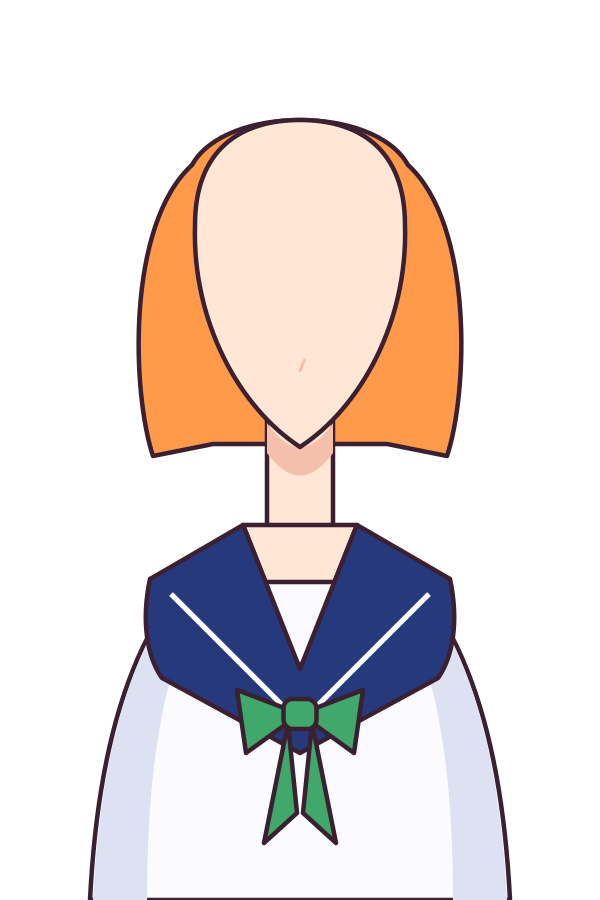
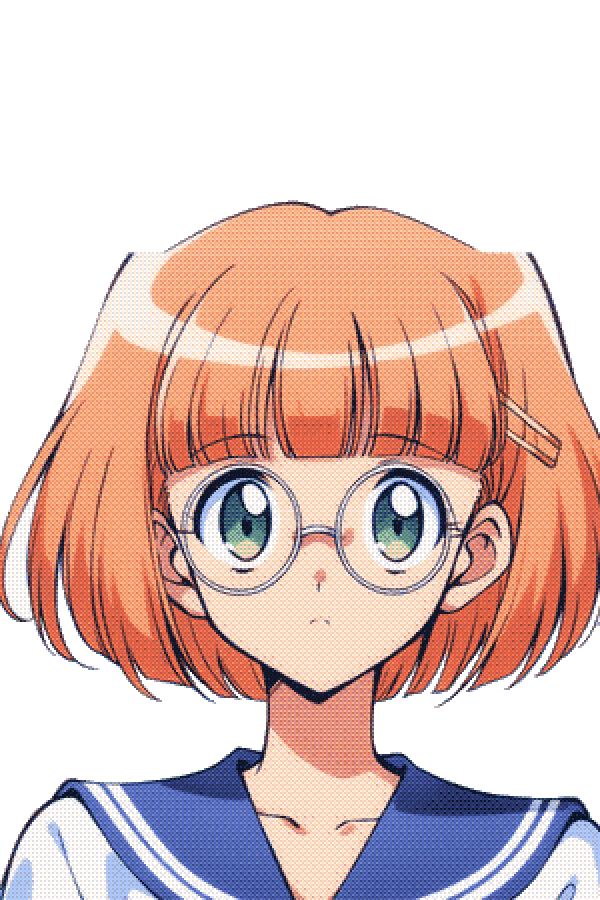
feat(art): 楓の立ち絵を ComfyUI で作成（冬華と同じ手順のレイヤー差分）
- 基準バスト: txt2img + IP-Adapter 0.3 の seed 1〜6 から seed 6 採用
  （橙 bob・緑の目・丸眼鏡・緑のリボン・黄色の髪留めが原案に一致）
- misaki_parts に CONFIGS["kaede"]（丸眼鏡の lens/lash_zones、部位マスク、
  楓用プロンプト、wink 対策タグ・denoise）と extend/build/sheet --char kaede
- 眼鏡フレームを lens 楕円で抽出し base_front に（use() で lens タプル対応）
- 虹彩の濃い緑が MEDIANCUT 64 色から落ち navy 化 → quant="octree" で回避
- 冬華と同じ目幅合わせだと 1.3 倍大きいため zoom=416/340 に調整（trio 比較）
- 採用 seed: 基準 6 / eyes_happy 17 / eyes_pout 11（生成後に _s5 へリネーム）
- docs/image-generation.md 楓の項、README の素材表記更新
- レイヤー差し替えのみで images.rpy は差分なし（gen_rpy 再実行で確認）

diff --git a/docs/image-generation.md b/docs/image-generation.md
@@ -82,6 +82,16 @@ python -m tools.gen_rpy             # images.rpy を再生成
 - 後ろ姿は `python -m tools.char_back gen|install misaki|touka`（顔が写るので IP-Adapter は使えず、プロンプトのみ）。採用 seed はミサキ 2、冬華 1。
 - 既知の課題: 冬華の「怒り」眉は前髪に隠れて弱い。眼の「びっくり」は目の下に影が出る。後ろ姿の制服の白は透過時に淡くなる。
 
+### 楓
+
+- 楓も参考画像がないため冬華と同じ手順。デザイン元は `tools/svg/chars.py` の kaede（橙の bob、緑の目、**丸眼鏡**、緑のリボン、黄色の髪留め）。
+- **基準バスト**: `comfy_gen gen --preset bg`（txt2img 896×1152）+ IP-Adapter 0.3 で seed 1〜6 を作り、**seed 6 採用**（髪留め・緑のリボン・丸眼鏡まで原案の要素が最も揃った）。冬華と違い **Negative に glasses, eyewear を入れない**（眼鏡が特徴）。Positive に `(orange hair:1.5), (round eyewear:1.4), (green bowtie:1.4), (yellow hairpin:1.2)`、Negative に他髪色・long hair・赤リボン・四角/太フレーム眼鏡。
+- `misaki_parts CONFIGS["kaede"]`: 部位マスクは冬華より広い（目が大きく、レンズが髪にかかる）。眼鏡は楕円 ring（`lens=(LENS_L, LENS_R, BRIDGE)`）で抽出し、フレームとまつ毛の重なる帯を `lash_zones` で復元から除外。
+- **サイズ合わせ**: 冬華と同じ「目幅で zoom 合わせ」では楓は 1.3 倍大きく着地した（目自体が大きく丸眼鏡でさらに大きく見えるため）。trio 比較で **zoom=416/340** に下げた（`fit` 内コメント）。
+- **パレット**: 虹彩の濃い緑が MEDIANCUT の 64 色から落ち、**瞳が navy に化けた**。`quant="octree"`（FASTOCTREE）で解決。緑が主役でないキャラは既定 MEDIANCUT のまま。
+- **wink 破綻が出やすい**: 目領域が大きいため happy/closed/pout が片目開けになりやすい。タグ・denoise を強め（0.95）、**採用 seed は eyes_happy 17・eyes_pout 11・eyes_closed 5（2 回め）**。tool の gen は固定 seed（`_s5`）で出すため、再現時は作り直して目視で良い方を選ぶ（生成済みファイルは adopted seed を `_s5` にリネームしてあります）。
+- 既知の課題: 怒り眉は前髪に隠れて弱い（冬華と同じ）。pout の目は細め。ボブの左右の髪先はキャンバス枠に触れて切れる（冬華のロングと同じ扱い）。
+
 ### 髪・頭が切れる問題（アウトペイント）
 
 - 美咲の基準バストは参考シートのパネルを切り出したもので、枠で髪の左側が切れている。冬華は顔を美咲に合わせて拡大するため、頭頂・両側がはみ出す。
@@ -123,3 +133,4 @@ python -m tools.gen_rpy             # images.rpy を再生成
 - 64 色だと肌がややピンク寄りになる。`--colors 96〜128` も比較候補。
 - **`pose`（ゼロから構図を作る生成）はまだ参考に似ない**: 髪が明るい、目が赤い、リボンがスカーフ状、靴下が長い（`--ip-weight 0.85` でも同様）。参考画像を初期画像にできないため。美咲専用 LoRA（stand/expr の出力を学習素材に）で解決するのが本筋。
 - 背景は `tools/bg_gen.py` で生成する（手順・プロンプトは [background-art-spec.md](background-art-spec.md)）。イベント CG は未着手。
+- 立ち絵 3 人（ミサキ・冬華・楓）は ComfyUI の layeredimage 素材で確定。手続き生成の立ち絵（`tools/gen_images.py`）は差し替え用の仮素材として残している。次はイベント CG（3 枚とも手続き生成のまま）が候補。

diff --git a/README.md b/README.md
@@ -105,4 +105,4 @@ lib\py3-windows-x86_64\python.exe renpy.py launcher distribute C:\path\to\hoshim
 
 - 日本語フォントは Ren'Py SDK 同梱の Source Han Sans Lite（SIL OFL）。
 - ミサキの立ち絵は `docs/images/character-misaki.webp`（参考画像）から表情6種のバストアップを切り出したもの（`python -m tools.import_misaki`）。
-- 冬華・楓の立ち絵、背景、音楽は本リポジトリのツールによる手続き生成（仮素材）。
+- 冬華・楓の立ち絵と本編背景は ComfyUI 生成（手順は [docs/image-generation.md](docs/image-generation.md) / [docs/background-art-spec.md](docs/background-art-spec.md)）。イベント CG と音楽は本リポジトリのツールによる手続き生成（仮素材）。
